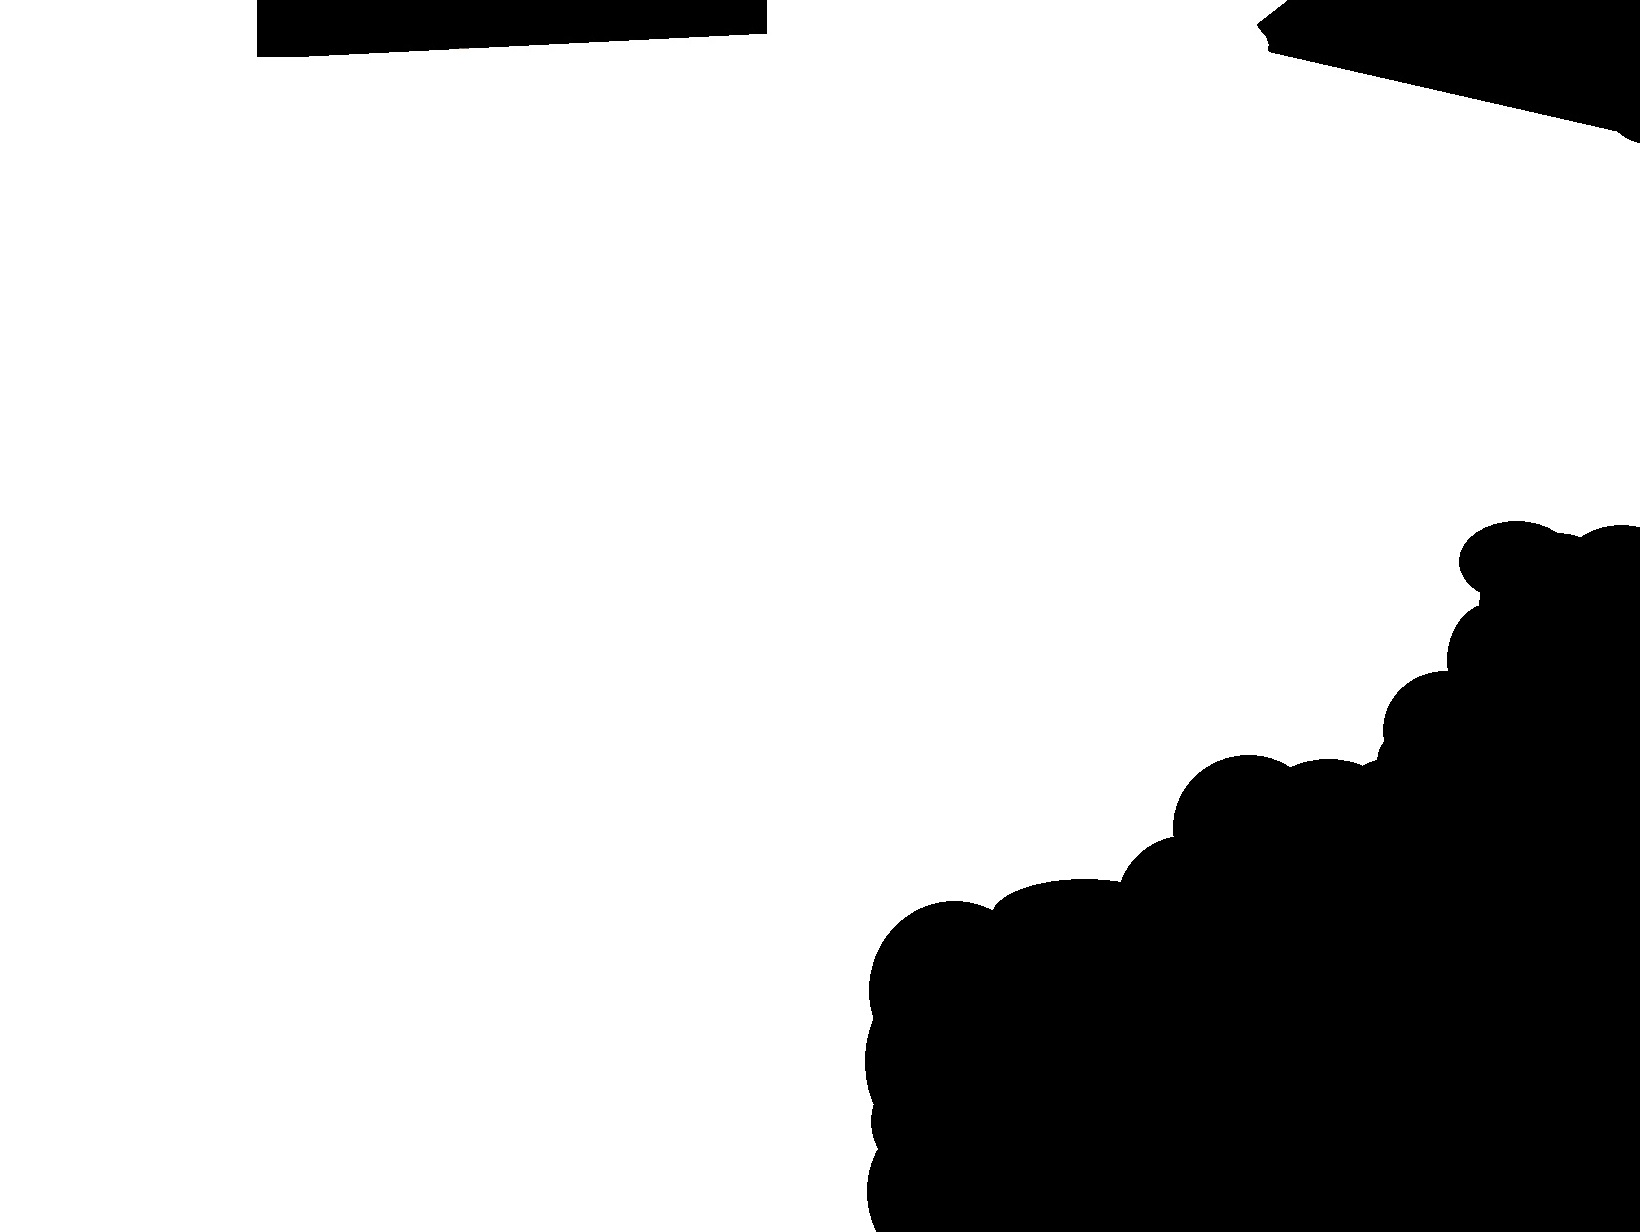
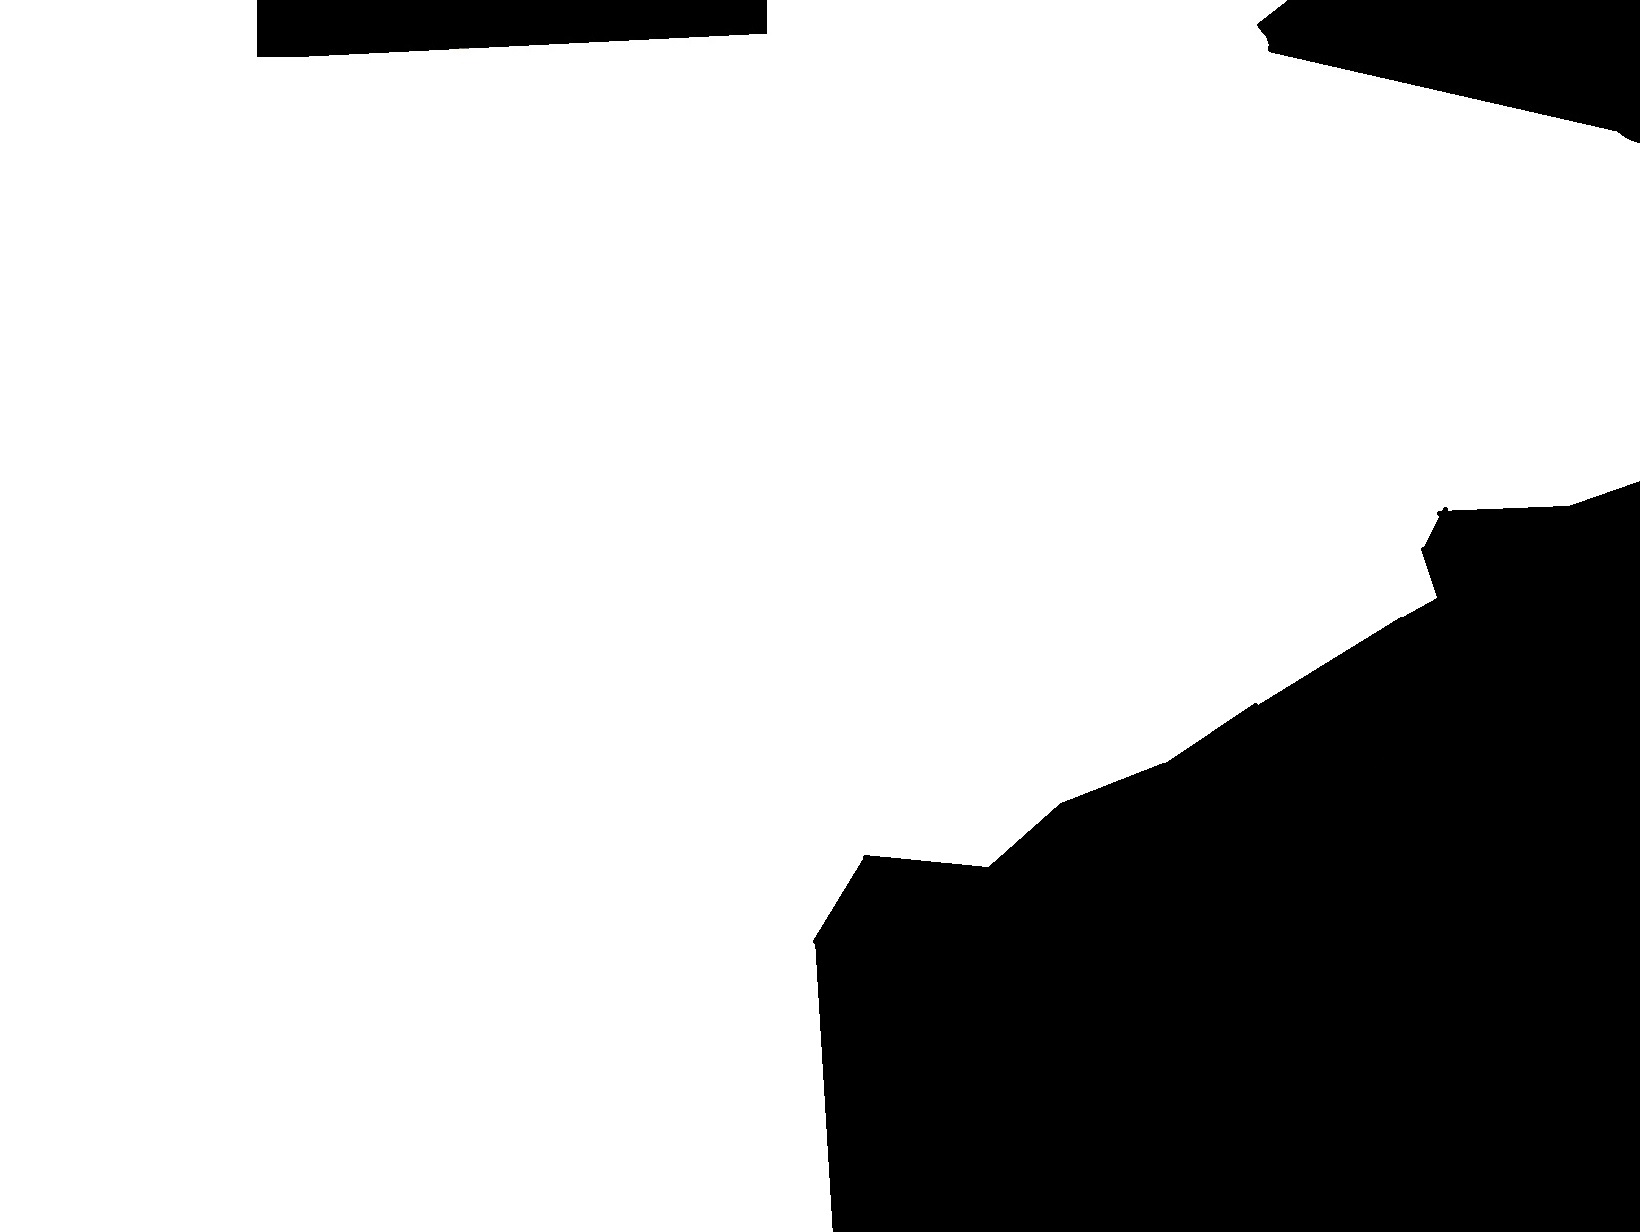
tune motion detection sensitivity down

Changed region(s): [[0.4976, 0.3701, 1.0, 1.0]]

diff --git a/Imaging/Camera.py b/Imaging/Camera.py
@@ -124,19 +124,19 @@ class Motion:
 
         # accumulate the weighted average between the current frame and previous frames,
         # then compute the difference between the current frame and running average
-        cv2.accumulateWeighted(gray, self.avg, 0.5)
+        cv2.accumulateWeighted(gray, self.avg, 0.4)
         frameDelta = cv2.absdiff(gray, cv2.convertScaleAbs(self.avg))
 
         # threshold the delta image, dilate the thresholded image to fill
         # in holes, then find contours on thresholded image
-        thresh = cv2.threshold(frameDelta, 17, 255, cv2.THRESH_BINARY)[1]
+        thresh = cv2.threshold(frameDelta, 25, 255, cv2.THRESH_BINARY)[1]
         thresh = cv2.dilate(thresh, None, iterations=3)
         image, contours, hierarchy = cv2.findContours(thresh.copy(), cv2.RETR_EXTERNAL, cv2.CHAIN_APPROX_SIMPLE)
 
         # loop over the contours
         for c in contours:
             # if the contour is too small or big, ignore it
-            if cv2.contourArea(c) < 5000 or cv2.contourArea(c) > 1000000:
+            if 500000 < cv2.contourArea(c) < 10000:
                 continue
 
             # compute the bounding box for the contour, draw it on the frame, and update the text
